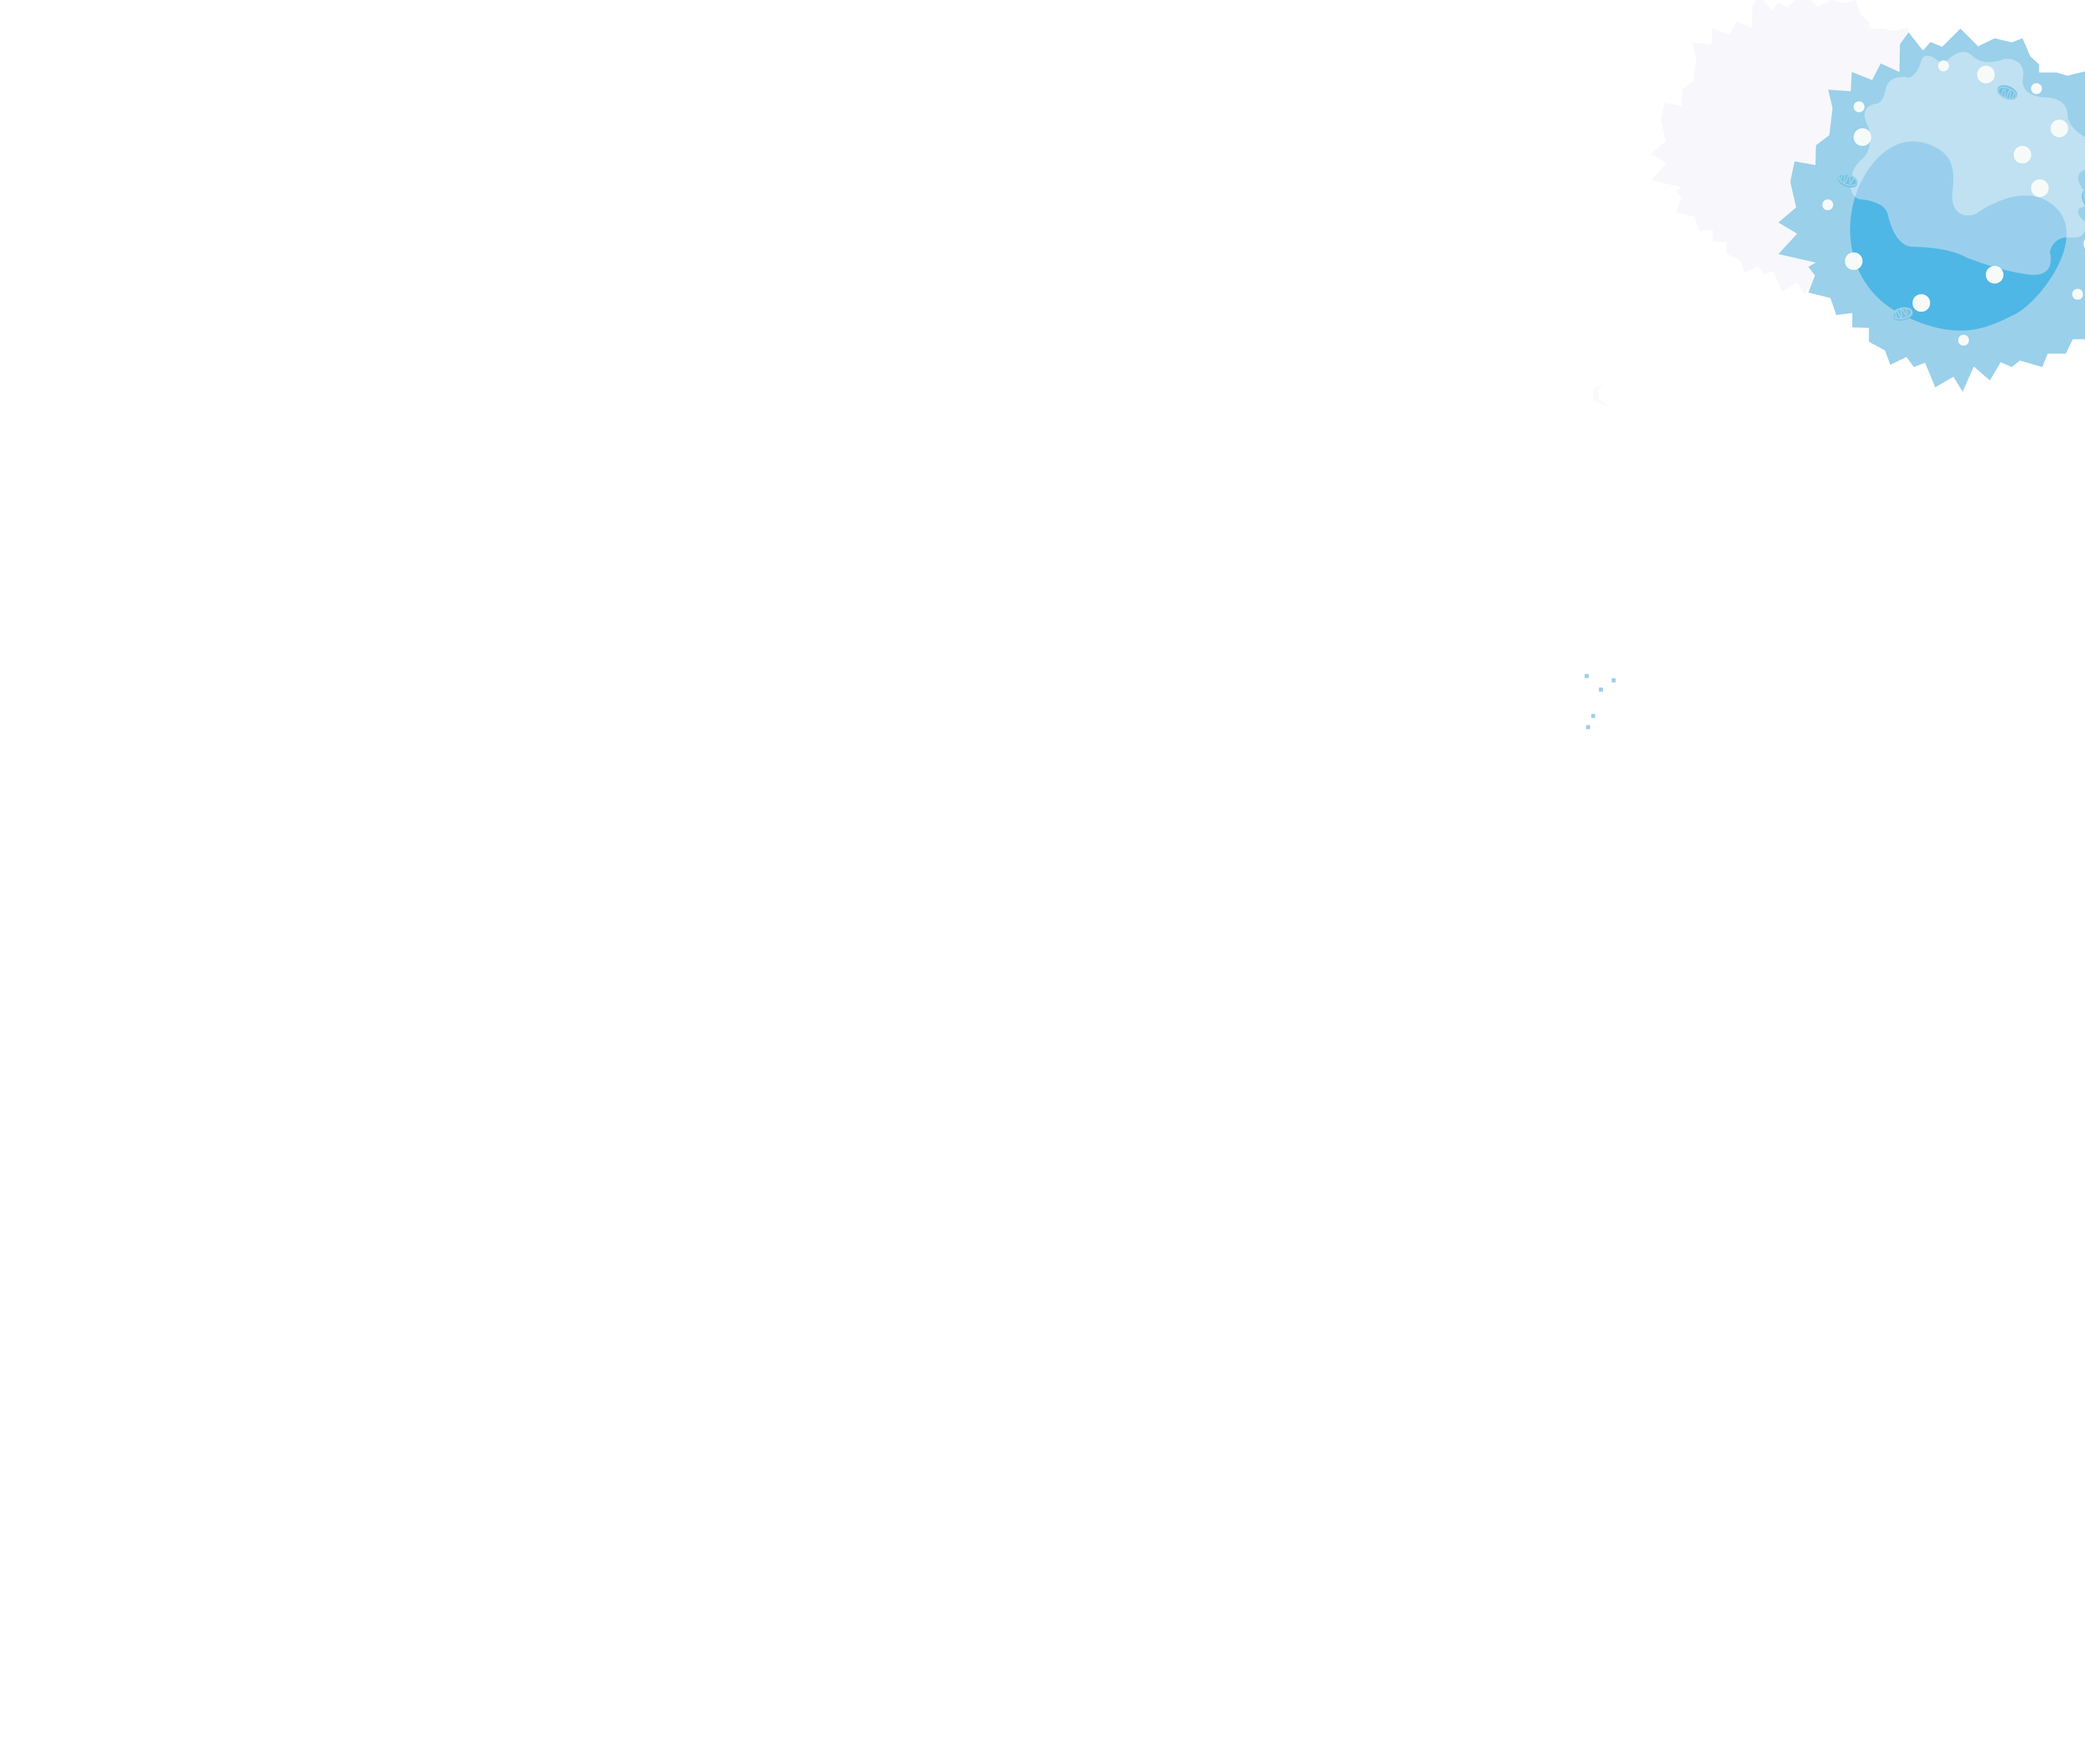
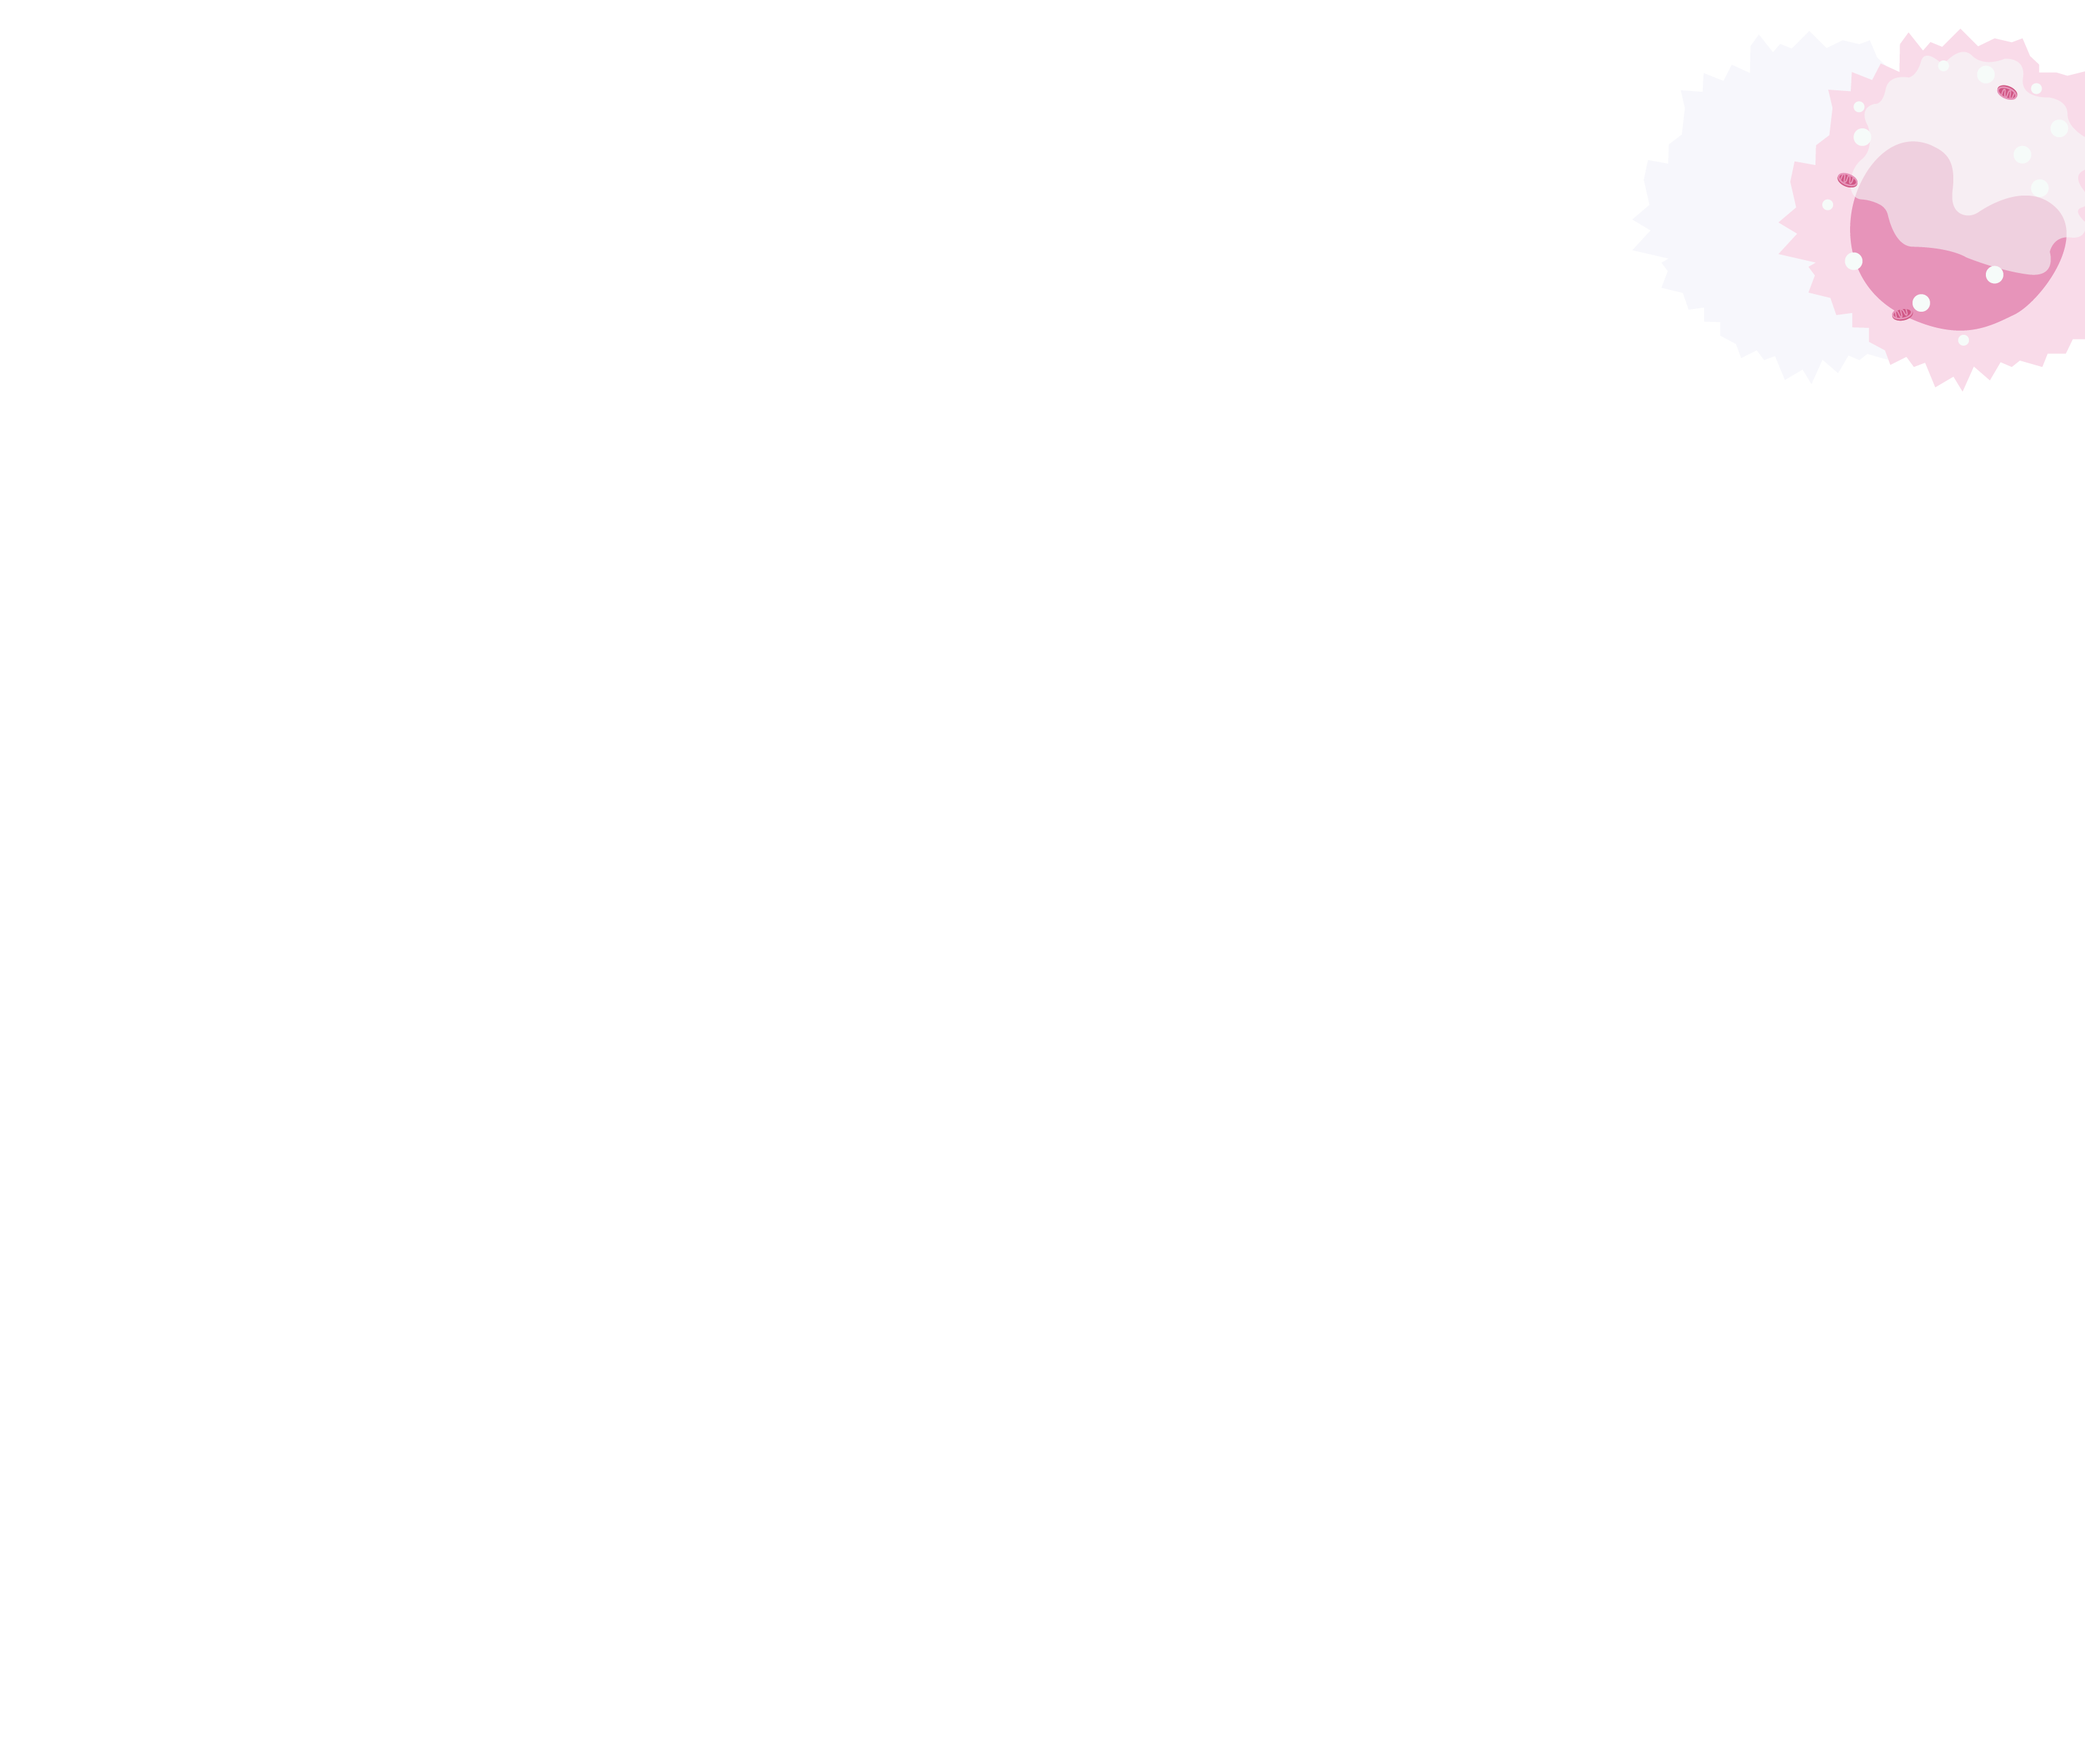
modify: change key visual color in home page

Changed region(s): [[0.8352, 0.0, 1.0, 0.2178]]

diff --git a/app/page.tsx b/app/page.tsx
@@ -66,14 +66,19 @@ export default function HomePage() {
         <div className="mx-auto mt-8 flex max-w-[800px] flex-col gap-y-4 px-4">
           <Typography.H1
             className={cn(
-              'text-center text-5xl text-zinc-500',
-              'md:text-left',
+              'inline-block text-center text-5xl text-zinc-500 backdrop-blur-md',
+              'md:text-left md:backdrop-blur-0',
               'lg:text-7xl',
             )}
           >
             Your AI Co-pilot in Medicine
           </Typography.H1>
-          <Typography.Blockquote className="max-w-[400px] self-start border-red-800 font-bold">
+          <Typography.Blockquote
+            className={cn(
+              'max-w-[400px] self-start border-red-800 font-bold backdrop-blur-md',
+              'md:backdrop-blur-0',
+            )}
+          >
             AHEAD{`'`}s Cyto-copilot enhances the efficiency, consistency, and
             scalability of flow cytometry analysis, empowering research,
             clinical diagnostics, and cell therapy quality control.
